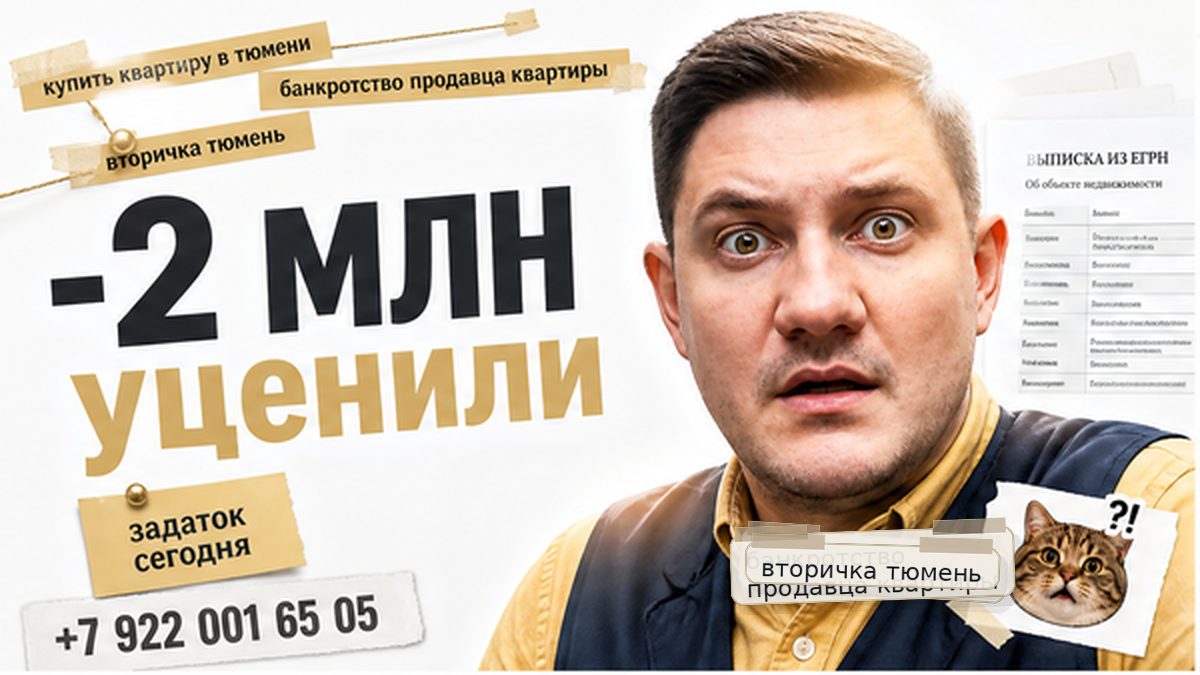
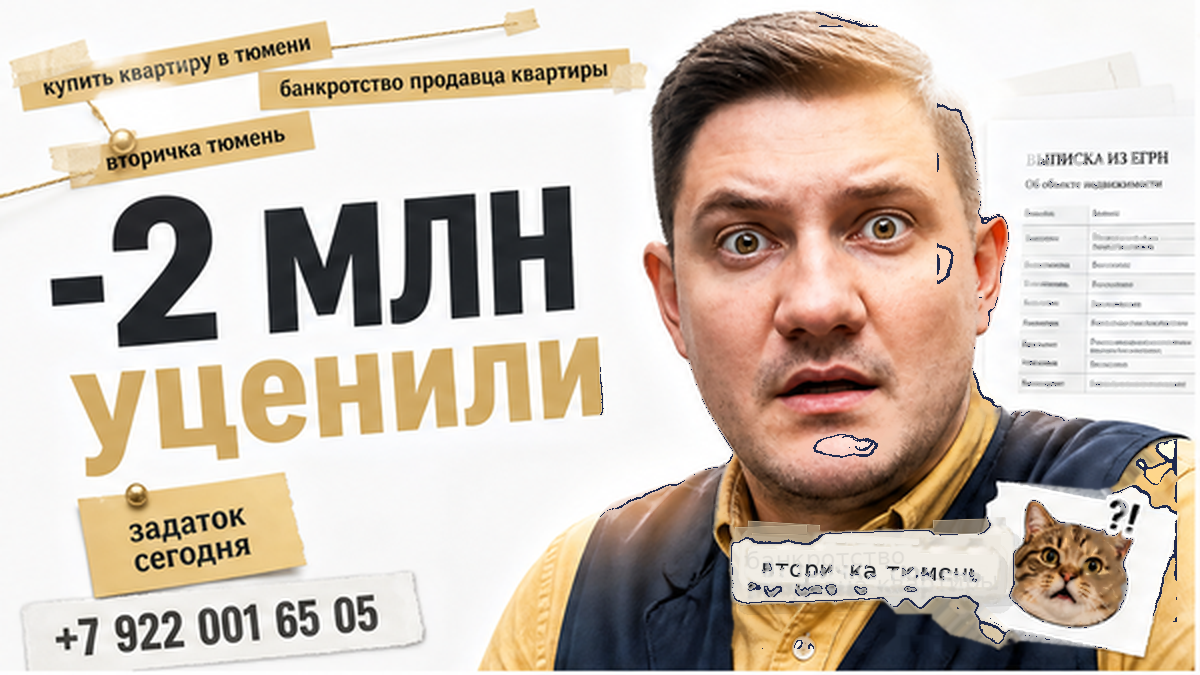
B05: peel chest Wordstat off cat meme; pixel QA chest/meme zones
- peel_chest: inpaint + navy vest scrub; face/top-left safe
- QA: CHEST_WORDSTAT_ZONE, MEME_OCCLUSION_ZONE; skin/meme false-positive fix
- Live featured attachment 8930 (md5 f1df505a…); og:image обновлён

diff --git a/scripts/excalibur_blog_cover_qa_pixels.py b/scripts/excalibur_blog_cover_qa_pixels.py
@@ -18,7 +18,15 @@ from typing import Any
 
 # Зоны без стикеров (нормализованные 0..1)
 TITLE_ZONE = (0.0, 0.0, 0.62, 0.38)  # x0,y0,x1,y1 — левый верх, заголовок
-MEME_ZONE = (0.82, 0.0, 1.0, 0.18)  # правый верх — meme sticker
+MEME_ZONE = (0.82, 0.0, 1.0, 0.18)  # правый верх — meme sticker (bars)
+MEME_GUARD_ZONE = (0.68, 0.0, 1.0, 0.42)  # legacy — верхний правый угол
+MEME_OCCLUSION_ZONE = (0.62, 0.58, 0.98, 0.90)  # cat + chest stickers overlap
+TOPLEFT_WORDSTAT_SAFE = (0.0, 0.0, 0.44, 0.32)  # taped Wordstat on board — allowed
+CHEST_PEEL_ZONE = (0.48, 0.28, 0.96, 0.74)  # host chest — legacy QA bbox
+CHEST_WORDSTAT_ZONE = (0.50, 0.44, 0.96, 0.88)  # жилет ниже лица — Wordstat forbidden
+CHEST_PEEL_ACTIVE = (0.50, 0.44, 0.98, 0.92)  # нижняя часть жилета + мем — только здесь peel
+FACE_EXCLUDE_ZONE = (0.30, 0.04, 0.78, 0.50)  # лицо/лоб — не трогать при peel
+BOTTOM_DUP_PEEL_ZONE = (0.56, 0.76, 0.94, 0.96)  # duplicate PIL wordstat bottom-right
 HOST_ZONE = (0.22, 0.08, 0.92, 0.98)  # где ожидаем крупное лицо
 WORDSTAT_ZONE = (0.62, 0.0, 1.0, 1.0)  # правая полоса для Wordstat
 
@@ -93,6 +101,251 @@ def _is_skin(r: int, g: int, b: int) -> bool:
 def _is_gold_sticker(r: int, g: int, b: int, *, tol: int = 38) -> bool:
     gr, gg, gb = GOLD_STICKER_RGB
     return abs(r - gr) <= tol and abs(g - gg) <= tol and abs(b - gb) <= tol
+
+
+def _is_pure_white_paper(r: int, g: int, b: int) -> bool:
+    """Белая/off-white бумага мем-стикера (не Wordstat tan label)."""
+    if r >= 246 and g >= 244 and b >= 238:
+        return True
+    # cat meme cutout border — почти нейтральный off-white
+    return r >= 238 and g >= 236 and b >= 230 and max(r, g, b) - min(r, g, b) <= 20
+
+
+def _is_paper_wordstat_pixel(r: int, g: int, b: int) -> bool:
+    """Tan/cream Wordstat paper sticker (PIL или model), не белый meme cutout."""
+    if _is_pure_white_paper(r, g, b):
+        return False
+    if _is_skin(r, g, b):
+        return False
+    # рыжая шерсть cat meme — не Wordstat label
+    if r >= 195 and g <= 178 and r - g >= 28:
+        return False
+    if _is_gold_sticker(r, g, b, tol=32):
+        return True
+    lum = _luminance(r, g, b)
+    if lum < 105 or lum > 248:
+        return False
+    # cream paper (PIL v2)
+    if r >= 245 and g >= 238 and b >= 225 and r + g + b > 700:
+        return True
+    # tan model labels on vest — узкий диапазон, не кожа/шерсть
+    if r >= 198 and g >= 168 and b >= 138 and r - b >= 28 and g - b >= 12 and r - g <= 38:
+        return True
+    return False
+
+
+def _paper_frac_in_zone(
+    img,
+    zone: tuple[float, float, float, float],
+    *,
+    exclude_zone: tuple[float, float, float, float] | None = None,
+    exclude_zones: tuple[tuple[float, float, float, float], ...] | None = None,
+) -> float:
+    w, h = img.size
+    rgb = img.convert("RGB")
+    x0 = int(zone[0] * w)
+    y0 = int(zone[1] * h)
+    x1 = max(x0 + 1, int(zone[2] * w))
+    y1 = max(y0 + 1, int(zone[3] * h))
+    excludes = list(exclude_zones or ())
+    if exclude_zone:
+        excludes.append(exclude_zone)
+    total = 0
+    paper = 0
+    for y in range(y0, y1):
+        for x in range(x0, x1):
+            xf, yf = x / w, y / h
+            if any(z[0] <= xf <= z[2] and z[1] <= yf <= z[3] for z in excludes):
+                continue
+            total += 1
+            if _is_paper_wordstat_pixel(*rgb.getpixel((x, y))):
+                paper += 1
+    return paper / max(total, 1)
+
+
+def _in_norm_zone(xf: float, yf: float, zone: tuple[float, float, float, float]) -> bool:
+    return zone[0] <= xf <= zone[2] and zone[1] <= yf <= zone[3]
+
+
+def _peel_active_zone(xf: float, yf: float) -> bool:
+    """Где можно снимать Wordstat: нижняя грудь/мем, не top-left board и не лицо."""
+    if _in_norm_zone(xf, yf, TOPLEFT_WORDSTAT_SAFE):
+        return False
+    if _in_norm_zone(xf, yf, FACE_EXCLUDE_ZONE):
+        return False
+    return any(
+        _in_norm_zone(xf, yf, z)
+        for z in (CHEST_PEEL_ACTIVE, MEME_GUARD_ZONE, BOTTOM_DUP_PEEL_ZONE)
+    )
+
+
+def _build_peel_mask(img, w: int, h: int) -> tuple[Any, int]:
+    """Маска tan paper + ink на стикерах в активной peel-зоне."""
+    ip = img.load()
+    mask = [[False] * w for _ in range(h)]
+    peeled = 0
+
+    for y in range(h):
+        for x in range(w):
+            xf, yf = x / w, y / h
+            if not _peel_active_zone(xf, yf):
+                continue
+            if _is_paper_wordstat_pixel(*ip[x, y]):
+                mask[y][x] = True
+                peeled += 1
+
+    for y in range(1, h - 1):
+        for x in range(1, w - 1):
+            if mask[y][x]:
+                continue
+            xf, yf = x / w, y / h
+            if not _peel_active_zone(xf, yf):
+                continue
+            r, g, b = ip[x, y]
+            if _luminance(r, g, b) > 105:
+                continue
+            if any(mask[ny][nx] for nx, ny in ((x - 1, y), (x + 1, y), (x, y - 1), (x, y + 1))):
+                mask[y][x] = True
+                peeled += 1
+
+    return mask, peeled
+
+
+def _sample_vest_rgb(img, w: int, h: int) -> tuple[int, int, int]:
+    """Navy жилет — референс с чистого участка без стикеров."""
+    ip = img.load()
+    samples: list[tuple[int, int, int]] = []
+    for y in range(int(h * 0.48), int(h * 0.58)):
+        for x in range(int(w * 0.54), int(w * 0.62)):
+            r, g, b = ip[x, y]
+            if _is_paper_wordstat_pixel(r, g, b):
+                continue
+            lum = _luminance(r, g, b)
+            if lum > 95 or r > 110:
+                continue
+            samples.append((r, g, b))
+    if not samples:
+        return (32, 42, 78)
+    return (
+        sum(c[0] for c in samples) // len(samples),
+        sum(c[1] for c in samples) // len(samples),
+        sum(c[2] for c in samples) // len(samples),
+    )
+
+
+def _scrub_remaining_paper(work, w: int, h: int, vest_rgb: tuple[int, int, int]) -> int:
+    """Последний проход: cream fringe → navy жилет."""
+    op = work.load()
+    scrubbed = 0
+    for y in range(h):
+        for x in range(w):
+            xf, yf = x / w, y / h
+            if not _peel_active_zone(xf, yf):
+                continue
+            r, g, b = op[x, y]
+            if not _is_paper_wordstat_pixel(r, g, b):
+                continue
+            jitter = ((x * 5 + y * 11) % 7) - 3
+            op[x, y] = (
+                max(0, min(255, vest_rgb[0] + jitter)),
+                max(0, min(255, vest_rgb[1] + jitter)),
+                max(0, min(255, vest_rgb[2] + jitter)),
+            )
+            scrubbed += 1
+    return scrubbed
+
+
+def _inpaint_from_neighbors(src, mask, w: int, h: int, *, max_radius: int = 14) -> Any:
+    """Заполнить маску медианой ближайших немаскированных пикселей оригинала."""
+    from PIL import Image
+
+    sip = src.load()
+    out = src.copy()
+    op = out.load()
+
+    for y in range(h):
+        for x in range(w):
+            if not mask[y][x]:
+                continue
+            picked: list[tuple[int, int, int]] = []
+            for radius in range(1, max_radius + 1):
+                for dy in range(-radius, radius + 1):
+                    for dx in range(-radius, radius + 1):
+                        if max(abs(dx), abs(dy)) != radius:
+                            continue
+                        nx, ny = x + dx, y + dy
+                        if nx < 0 or ny < 0 or nx >= w or ny >= h:
+                            continue
+                        if mask[ny][nx]:
+                            continue
+                        picked.append(sip[nx, ny])
+                if len(picked) >= 6:
+                    break
+            if not picked:
+                continue
+            rs = sorted(c[0] for c in picked)
+            gs = sorted(c[1] for c in picked)
+            bs = sorted(c[2] for c in picked)
+            mid = len(picked) // 2
+            op[x, y] = (rs[mid], gs[mid], bs[mid])
+    return out
+
+
+def peel_chest_wordstat_stickers(cover_path: Path, *, max_passes: int = 4) -> dict[str, Any]:
+    """Удалить Wordstat paper stickers с груди/мема; сохранить top-left board labels."""
+    from PIL import Image, ImageFilter
+
+    if not cover_path.is_file():
+        return {"status": "SKIP", "reason": f"{cover_path} missing"}
+
+    original = Image.open(cover_path).convert("RGB")
+    w, h = original.size
+    total_peeled = 0
+    passes = 0
+
+    work = original.copy()
+    for _ in range(max_passes):
+        mask_grid, peeled = _build_peel_mask(work, w, h)
+        if peeled < 40:
+            break
+        passes += 1
+        total_peeled += peeled
+        work = _inpaint_from_neighbors(work, mask_grid, w, h)
+        # Лёгкое сглаживание только на месте стикеров
+        mask_img = Image.new("L", (w, h), 0)
+        mp = mask_img.load()
+        for y in range(h):
+            for x in range(w):
+                if mask_grid[y][x]:
+                    mp[x, y] = 255
+        if mp[0, 0] or any(mp[x, y] for y in range(h) for x in range(w)):
+            blurred = work.filter(ImageFilter.GaussianBlur(radius=1))
+            work = Image.composite(blurred, work, mask_img.filter(ImageFilter.MaxFilter(3)))
+
+        chest = _paper_frac_in_zone(
+            work, CHEST_WORDSTAT_ZONE, exclude_zones=(TOPLEFT_WORDSTAT_SAFE, FACE_EXCLUDE_ZONE)
+        )
+        meme = _paper_frac_in_zone(
+            work, MEME_OCCLUSION_ZONE, exclude_zones=(TOPLEFT_WORDSTAT_SAFE, FACE_EXCLUDE_ZONE)
+        )
+        if chest < 0.012 and meme < 0.015:
+            break
+
+    if total_peeled < 40:
+        return {"status": "SKIP", "reason": f"only {total_peeled} peel pixels", "peeled_pixels": total_peeled}
+
+    vest_rgb = _sample_vest_rgb(original, w, h)
+    scrubbed = _scrub_remaining_paper(work, w, h, vest_rgb)
+
+    work.save(cover_path, format="PNG")
+    return {
+        "status": "OK",
+        "peeled_pixels": total_peeled,
+        "scrubbed_pixels": scrubbed,
+        "passes": passes,
+        "vest_rgb": list(vest_rgb),
+        "file": cover_path.name,
+    }
 
 
 def _is_dark_garment(r: int, g: int, b: int) -> bool:
@@ -452,6 +705,27 @@ def analyze_cover_pixels(
     if not checks["pixel_meme_zone_clear"]:
         errors.append(f"pixel_meme_zone_clear FAIL: {len(meme_bands)} bar band(s) on meme")
 
+    # --- paper Wordstat on chest / over meme cat (not just bars) ---
+    qa_excludes = (TOPLEFT_WORDSTAT_SAFE, FACE_EXCLUDE_ZONE)
+    chest_paper = _paper_frac_in_zone(
+        img, CHEST_WORDSTAT_ZONE, exclude_zones=qa_excludes
+    )
+    meme_paper = _paper_frac_in_zone(
+        img, MEME_OCCLUSION_ZONE, exclude_zones=qa_excludes
+    )
+    evidence["chest_wordstat_paper_frac"] = round(chest_paper, 4)
+    evidence["meme_guard_wordstat_paper_frac"] = round(meme_paper, 4)
+    checks["pixel_wordstat_not_on_host_chest"] = chest_paper < 0.012
+    checks["pixel_meme_not_occluded_by_wordstat"] = meme_paper < 0.015
+    if not checks["pixel_wordstat_not_on_host_chest"]:
+        errors.append(
+            f"pixel_wordstat_not_on_host_chest FAIL: paper_frac={chest_paper:.3f} on vest"
+        )
+    if not checks["pixel_meme_not_occluded_by_wordstat"]:
+        errors.append(
+            f"pixel_meme_not_occluded_by_wordstat FAIL: paper_frac={meme_paper:.3f} on meme zone"
+        )
+
     # --- truncated phrase heuristics (partial words at strip edge) ---
     phrase_list = phrases or (manifest or {}).get("wordstat_stickers") or []
     truncated_phrase = False
@@ -513,7 +787,11 @@ def stamp_cover_qa_json(
         "identity_face_28yo": checks.get("pixel_host_close_up", False),
         "identity_body_medium_slim": checks.get("pixel_host_not_distant_fullbody", False),
         "identity_expression_invented": True,
-        "title_not_occluded": checks.get("pixel_title_zone_clear", False),
+        "title_not_occluded": (
+            checks.get("pixel_title_zone_clear", False)
+            and checks.get("pixel_wordstat_not_on_host_chest", False)
+            and checks.get("pixel_meme_not_occluded_by_wordstat", False)
+        ),
         "outfit_invented": checks.get("pixel_manifest_outfit_matches", False),
         "action_invented": True,
         "emotion_not_copied_from_recent_covers": True,
@@ -568,6 +846,7 @@ def main() -> int:
     ap.add_argument("--article-dir", type=Path, help="Article dir (uses cover/cover.png + manifest)")
     ap.add_argument("--stamp", action="store_true", help="Write cover/cover_qa.json from pixel results")
     ap.add_argument("--describe", action="store_true", help="Print pixel description only")
+    ap.add_argument("--peel-chest", action="store_true", help="Remove chest/meme Wordstat stickers in-place")
     args = ap.parse_args()
     root = project_root()
 
@@ -599,6 +878,11 @@ def main() -> int:
         print(describe_cover_pixels(cover_path))
         print(f"md5={md5_file(cover_path)}")
         return 0
+
+    if args.peel_chest:
+        report = peel_chest_wordstat_stickers(cover_path)
+        print(json.dumps(report, ensure_ascii=False, indent=2))
+        return 0 if report.get("status") == "OK" else 1
 
     result = analyze_cover_pixels(cover_path, manifest=manifest)
     print(json.dumps(result.to_dict(), ensure_ascii=False, indent=2))

diff --git a/scripts/excalibur_blog_cover_fixer.py b/scripts/excalibur_blog_cover_fixer.py
@@ -17,6 +17,7 @@ from excalibur_blog_cover_qa_pixels import (
     analyze_cover_pixels,
     load_json,
     md5_file,
+    peel_chest_wordstat_stickers,
     stamp_cover_qa_json,
 )
 
@@ -43,7 +44,14 @@ def needs_wordstat_fix(result: Any) -> bool:
         and checks.get("pixel_title_zone_clear")
         and checks.get("pixel_meme_zone_clear")
         and checks.get("pixel_wordstat_phrases_not_truncated")
+        and checks.get("pixel_wordstat_not_on_host_chest")
+        and checks.get("pixel_meme_not_occluded_by_wordstat")
     )
+
+
+def peel_chest_stickers(article_dir: Path) -> dict[str, Any]:
+    cover = article_dir / "cover" / "cover.png"
+    return peel_chest_wordstat_stickers(cover)
 
 
 def needs_host_fix(result: Any) -> bool:
@@ -124,6 +132,23 @@ def run_fixer(
         host_fail = needs_host_fix(last_result)
 
         if wordstat_fail:
+            if not last_result.checks.get("pixel_wordstat_not_on_host_chest") or not last_result.checks.get(
+                "pixel_meme_not_occluded_by_wordstat"
+            ):
+                log.append(f"round {round_idx}: peel chest/meme Wordstat stickers")
+                peel_report = peel_chest_stickers(article_dir)
+                log.append(f"round {round_idx}: peel → {peel_report.get('status')}")
+                last_result = pixel_qa(article_dir, root, manifest)
+                if last_result.status == "PASS":
+                    stamp_cover_qa_json(article_dir, last_result, topic_id=topic_id)
+                    return {
+                        "status": "PASS",
+                        "rounds": round_idx,
+                        "cover_md5": md5_file(article_dir / "cover" / "cover.png"),
+                        "log": log,
+                        "pixel_description": last_result.evidence.get("pixel_description"),
+                    }
+
             log.append(f"round {round_idx}: fix wordstat paper stickers")
             fix_wordstat_stickers(article_dir, root)
             last_result = pixel_qa(article_dir, root, manifest)

diff --git a/scripts/excalibur_blog_cover_qa_gate.py b/scripts/excalibur_blog_cover_qa_gate.py
@@ -48,6 +48,8 @@ REQUIRED_CHECKS = (
     "pixel_wordstat_not_opaque_bars",
     "pixel_title_zone_clear",
     "pixel_meme_zone_clear",
+    "pixel_wordstat_not_on_host_chest",
+    "pixel_meme_not_occluded_by_wordstat",
 )
 
 PIXEL_REQUIRED = (
@@ -58,6 +60,8 @@ PIXEL_REQUIRED = (
     "pixel_wordstat_not_edge_truncated",
     "pixel_title_zone_clear",
     "pixel_meme_zone_clear",
+    "pixel_wordstat_not_on_host_chest",
+    "pixel_meme_not_occluded_by_wordstat",
     "pixel_wordstat_phrases_not_truncated",
     "pixel_phone_readable",
     "pixel_light_high_key",
